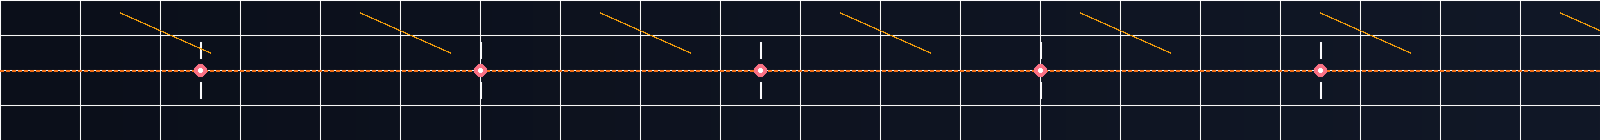
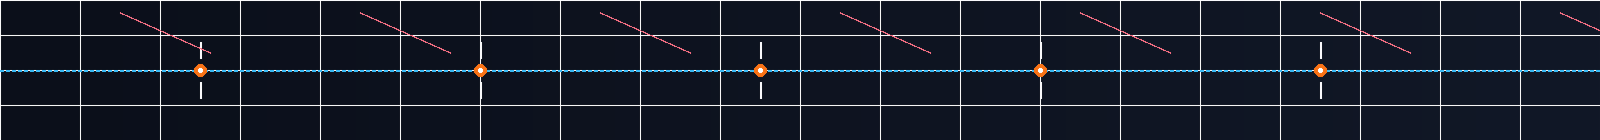
Align theme to sunset+blue palette

Changed region(s): [[0.0, 0.4571, 1.0, 0.5429]]

diff --git a/README.md b/README.md
@@ -74,23 +74,23 @@
 
 **Programming Languages**
 
-![Python](https://img.shields.io/badge/Python-0B0F1A?style=flat-square&logo=python&logoColor=F97316&labelColor=0B0F1A) ![C++](https://img.shields.io/badge/C++-0B0F1A?style=flat-square&logo=cplusplus&logoColor=F97316&labelColor=0B0F1A) ![Java](https://img.shields.io/badge/Java-0B0F1A?style=flat-square&logo=java&logoColor=F97316&labelColor=0B0F1A) ![SQL](https://img.shields.io/badge/SQL-0B0F1A?style=flat-square&labelColor=0B0F1A) ![TypeScript](https://img.shields.io/badge/TypeScript-0B0F1A?style=flat-square&logo=typescript&logoColor=F97316&labelColor=0B0F1A) ![JavaScript](https://img.shields.io/badge/JavaScript-0B0F1A?style=flat-square&logo=javascript&logoColor=F97316&labelColor=0B0F1A) ![Go](https://img.shields.io/badge/Go-0B0F1A?style=flat-square&logo=go&logoColor=F97316&labelColor=0B0F1A) ![Rust](https://img.shields.io/badge/Rust-0B0F1A?style=flat-square&logo=rust&logoColor=F97316&labelColor=0B0F1A)
-![HTML](https://img.shields.io/badge/HTML-0B0F1A?style=flat-square&logo=html5&logoColor=F97316&labelColor=0B0F1A) ![CSS](https://img.shields.io/badge/CSS-0B0F1A?style=flat-square&logo=css3&logoColor=F97316&labelColor=0B0F1A)
+![Python](https://img.shields.io/badge/Python-0B0F1A?style=flat-square&logo=python&logoColor=38BDF8&labelColor=0B0F1A) ![C++](https://img.shields.io/badge/C++-0B0F1A?style=flat-square&logo=cplusplus&logoColor=38BDF8&labelColor=0B0F1A) ![Java](https://img.shields.io/badge/Java-0B0F1A?style=flat-square&logo=java&logoColor=38BDF8&labelColor=0B0F1A) ![SQL](https://img.shields.io/badge/SQL-0B0F1A?style=flat-square&labelColor=0B0F1A) ![TypeScript](https://img.shields.io/badge/TypeScript-0B0F1A?style=flat-square&logo=typescript&logoColor=38BDF8&labelColor=0B0F1A) ![JavaScript](https://img.shields.io/badge/JavaScript-0B0F1A?style=flat-square&logo=javascript&logoColor=38BDF8&labelColor=0B0F1A) ![Go](https://img.shields.io/badge/Go-0B0F1A?style=flat-square&logo=go&logoColor=38BDF8&labelColor=0B0F1A) ![Rust](https://img.shields.io/badge/Rust-0B0F1A?style=flat-square&logo=rust&logoColor=38BDF8&labelColor=0B0F1A)
+![HTML](https://img.shields.io/badge/HTML-0B0F1A?style=flat-square&logo=html5&logoColor=38BDF8&labelColor=0B0F1A) ![CSS](https://img.shields.io/badge/CSS-0B0F1A?style=flat-square&logo=css3&logoColor=38BDF8&labelColor=0B0F1A)
 
 **Frameworks & Libraries**
 
-![NumPy](https://img.shields.io/badge/NumPy-0B0F1A?style=flat-square&logo=numpy&logoColor=F97316&labelColor=0B0F1A) ![Pandas](https://img.shields.io/badge/Pandas-0B0F1A?style=flat-square&logo=pandas&logoColor=F97316&labelColor=0B0F1A) ![Matplotlib](https://img.shields.io/badge/Matplotlib-0B0F1A?style=flat-square&logo=matplotlib&logoColor=F97316&labelColor=0B0F1A) ![Scikit--Learn](https://img.shields.io/badge/Scikit--Learn-0B0F1A?style=flat-square&logo=scikitlearn&logoColor=F97316&labelColor=0B0F1A) ![TensorFlow](https://img.shields.io/badge/TensorFlow-0B0F1A?style=flat-square&logo=tensorflow&logoColor=F97316&labelColor=0B0F1A) ![Keras](https://img.shields.io/badge/Keras-0B0F1A?style=flat-square&logo=keras&logoColor=F97316&labelColor=0B0F1A) ![Transformers](https://img.shields.io/badge/Transformers-0B0F1A?style=flat-square&labelColor=0B0F1A) ![SpaCy](https://img.shields.io/badge/SpaCy-0B0F1A?style=flat-square&logo=spacy&logoColor=F97316&labelColor=0B0F1A)
-![FastAPI](https://img.shields.io/badge/FastAPI-0B0F1A?style=flat-square&logo=fastapi&logoColor=F97316&labelColor=0B0F1A) ![Flask](https://img.shields.io/badge/Flask-0B0F1A?style=flat-square&logo=flask&logoColor=F97316&labelColor=0B0F1A) ![Django](https://img.shields.io/badge/Django-0B0F1A?style=flat-square&logo=django&logoColor=F97316&labelColor=0B0F1A) ![LangChain](https://img.shields.io/badge/LangChain-0B0F1A?style=flat-square&logo=chainlink&logoColor=F97316&labelColor=0B0F1A) ![LangGraph](https://img.shields.io/badge/LangGraph-0B0F1A?style=flat-square&logo=graphql&logoColor=F97316&labelColor=0B0F1A) ![Hugging%20Face](https://img.shields.io/badge/Hugging%20Face-0B0F1A?style=flat-square&logo=huggingface&logoColor=F97316&labelColor=0B0F1A) ![Streamlit](https://img.shields.io/badge/Streamlit-0B0F1A?style=flat-square&logo=streamlit&logoColor=F97316&labelColor=0B0F1A) ![LoRA](https://img.shields.io/badge/LoRA-0B0F1A?style=flat-square&labelColor=0B0F1A)
-![CrewAI](https://img.shields.io/badge/CrewAI-0B0F1A?style=flat-square&labelColor=0B0F1A) ![Pydantic](https://img.shields.io/badge/Pydantic-0B0F1A?style=flat-square&logo=pydantic&logoColor=F97316&labelColor=0B0F1A) ![Uvicorn](https://img.shields.io/badge/Uvicorn-0B0F1A?style=flat-square&labelColor=0B0F1A) ![SQLAlchemy](https://img.shields.io/badge/SQLAlchemy-0B0F1A?style=flat-square&labelColor=0B0F1A) ![Gunicorn](https://img.shields.io/badge/Gunicorn-0B0F1A?style=flat-square&labelColor=0B0F1A) ![Starlette](https://img.shields.io/badge/Starlette-0B0F1A?style=flat-square&labelColor=0B0F1A) ![Psycopg2](https://img.shields.io/badge/Psycopg2-0B0F1A?style=flat-square&labelColor=0B0F1A) ![Alembic](https://img.shields.io/badge/Alembic-0B0F1A?style=flat-square&labelColor=0B0F1A)
-![SQLite](https://img.shields.io/badge/SQLite-0B0F1A?style=flat-square&logo=sqlite&logoColor=F97316&labelColor=0B0F1A) ![Prisma](https://img.shields.io/badge/Prisma-0B0F1A?style=flat-square&logo=prisma&logoColor=F97316&labelColor=0B0F1A) ![OpenAI](https://img.shields.io/badge/OpenAI-0B0F1A?style=flat-square&logo=openai&logoColor=F97316&labelColor=0B0F1A) ![Anthropic](https://img.shields.io/badge/Anthropic-0B0F1A?style=flat-square&logo=anthropic&logoColor=F97316&labelColor=0B0F1A) ![Cohere](https://img.shields.io/badge/Cohere-0B0F1A?style=flat-square&logo=cohere&logoColor=F97316&labelColor=0B0F1A) ![LlamaIndex](https://img.shields.io/badge/LlamaIndex-0B0F1A?style=flat-square&labelColor=0B0F1A) ![FAISS](https://img.shields.io/badge/FAISS-0B0F1A?style=flat-square&labelColor=0B0F1A) ![Pinecone](https://img.shields.io/badge/Pinecone-0B0F1A?style=flat-square&logo=pinecone&logoColor=F97316&labelColor=0B0F1A)
-![Weaviate](https://img.shields.io/badge/Weaviate-0B0F1A?style=flat-square&logo=weaviate&logoColor=F97316&labelColor=0B0F1A) ![Qdrant](https://img.shields.io/badge/Qdrant-0B0F1A?style=flat-square&logo=qdrant&logoColor=F97316&labelColor=0B0F1A) ![Milvus](https://img.shields.io/badge/Milvus-0B0F1A?style=flat-square&logo=milvus&logoColor=F97316&labelColor=0B0F1A) ![Chroma](https://img.shields.io/badge/Chroma-0B0F1A?style=flat-square&logo=chroma&logoColor=F97316&labelColor=0B0F1A) ![GraphQL](https://img.shields.io/badge/GraphQL-0B0F1A?style=flat-square&logo=graphql&logoColor=F97316&labelColor=0B0F1A) ![gRPC](https://img.shields.io/badge/gRPC-0B0F1A?style=flat-square&logo=grpc&logoColor=F97316&labelColor=0B0F1A) ![Node.js](https://img.shields.io/badge/Node.js-0B0F1A?style=flat-square&logo=node.js&logoColor=F97316&labelColor=0B0F1A) ![Express](https://img.shields.io/badge/Express-0B0F1A?style=flat-square&logo=express&logoColor=F97316&labelColor=0B0F1A)
-![NestJS](https://img.shields.io/badge/NestJS-0B0F1A?style=flat-square&logo=nestjs&logoColor=F97316&labelColor=0B0F1A) ![PostgreSQL](https://img.shields.io/badge/PostgreSQL-0B0F1A?style=flat-square&logo=postgresql&logoColor=F97316&labelColor=0B0F1A) ![MySQL](https://img.shields.io/badge/MySQL-0B0F1A?style=flat-square&logo=mysql&logoColor=F97316&labelColor=0B0F1A) ![MongoDB](https://img.shields.io/badge/MongoDB-0B0F1A?style=flat-square&logo=mongodb&logoColor=F97316&labelColor=0B0F1A) ![Redis](https://img.shields.io/badge/Redis-0B0F1A?style=flat-square&logo=redis&logoColor=F97316&labelColor=0B0F1A) ![Elasticsearch](https://img.shields.io/badge/Elasticsearch-0B0F1A?style=flat-square&logo=elasticsearch&logoColor=F97316&labelColor=0B0F1A) ![Kafka](https://img.shields.io/badge/Kafka-0B0F1A?style=flat-square&logo=apachekafka&logoColor=F97316&labelColor=0B0F1A) ![RabbitMQ](https://img.shields.io/badge/RabbitMQ-0B0F1A?style=flat-square&logo=rabbitmq&logoColor=F97316&labelColor=0B0F1A)
-![Celery](https://img.shields.io/badge/Celery-0B0F1A?style=flat-square&logo=celery&logoColor=F97316&labelColor=0B0F1A)
+![NumPy](https://img.shields.io/badge/NumPy-0B0F1A?style=flat-square&logo=numpy&logoColor=38BDF8&labelColor=0B0F1A) ![Pandas](https://img.shields.io/badge/Pandas-0B0F1A?style=flat-square&logo=pandas&logoColor=38BDF8&labelColor=0B0F1A) ![Matplotlib](https://img.shields.io/badge/Matplotlib-0B0F1A?style=flat-square&logo=matplotlib&logoColor=38BDF8&labelColor=0B0F1A) ![Scikit--Learn](https://img.shields.io/badge/Scikit--Learn-0B0F1A?style=flat-square&logo=scikitlearn&logoColor=38BDF8&labelColor=0B0F1A) ![TensorFlow](https://img.shields.io/badge/TensorFlow-0B0F1A?style=flat-square&logo=tensorflow&logoColor=38BDF8&labelColor=0B0F1A) ![Keras](https://img.shields.io/badge/Keras-0B0F1A?style=flat-square&logo=keras&logoColor=38BDF8&labelColor=0B0F1A) ![Transformers](https://img.shields.io/badge/Transformers-0B0F1A?style=flat-square&labelColor=0B0F1A) ![SpaCy](https://img.shields.io/badge/SpaCy-0B0F1A?style=flat-square&logo=spacy&logoColor=38BDF8&labelColor=0B0F1A)
+![FastAPI](https://img.shields.io/badge/FastAPI-0B0F1A?style=flat-square&logo=fastapi&logoColor=38BDF8&labelColor=0B0F1A) ![Flask](https://img.shields.io/badge/Flask-0B0F1A?style=flat-square&logo=flask&logoColor=38BDF8&labelColor=0B0F1A) ![Django](https://img.shields.io/badge/Django-0B0F1A?style=flat-square&logo=django&logoColor=38BDF8&labelColor=0B0F1A) ![LangChain](https://img.shields.io/badge/LangChain-0B0F1A?style=flat-square&logo=chainlink&logoColor=38BDF8&labelColor=0B0F1A) ![LangGraph](https://img.shields.io/badge/LangGraph-0B0F1A?style=flat-square&logo=graphql&logoColor=38BDF8&labelColor=0B0F1A) ![Hugging%20Face](https://img.shields.io/badge/Hugging%20Face-0B0F1A?style=flat-square&logo=huggingface&logoColor=38BDF8&labelColor=0B0F1A) ![Streamlit](https://img.shields.io/badge/Streamlit-0B0F1A?style=flat-square&logo=streamlit&logoColor=38BDF8&labelColor=0B0F1A) ![LoRA](https://img.shields.io/badge/LoRA-0B0F1A?style=flat-square&labelColor=0B0F1A)
+![CrewAI](https://img.shields.io/badge/CrewAI-0B0F1A?style=flat-square&labelColor=0B0F1A) ![Pydantic](https://img.shields.io/badge/Pydantic-0B0F1A?style=flat-square&logo=pydantic&logoColor=38BDF8&labelColor=0B0F1A) ![Uvicorn](https://img.shields.io/badge/Uvicorn-0B0F1A?style=flat-square&labelColor=0B0F1A) ![SQLAlchemy](https://img.shields.io/badge/SQLAlchemy-0B0F1A?style=flat-square&labelColor=0B0F1A) ![Gunicorn](https://img.shields.io/badge/Gunicorn-0B0F1A?style=flat-square&labelColor=0B0F1A) ![Starlette](https://img.shields.io/badge/Starlette-0B0F1A?style=flat-square&labelColor=0B0F1A) ![Psycopg2](https://img.shields.io/badge/Psycopg2-0B0F1A?style=flat-square&labelColor=0B0F1A) ![Alembic](https://img.shields.io/badge/Alembic-0B0F1A?style=flat-square&labelColor=0B0F1A)
+![SQLite](https://img.shields.io/badge/SQLite-0B0F1A?style=flat-square&logo=sqlite&logoColor=38BDF8&labelColor=0B0F1A) ![Prisma](https://img.shields.io/badge/Prisma-0B0F1A?style=flat-square&logo=prisma&logoColor=38BDF8&labelColor=0B0F1A) ![OpenAI](https://img.shields.io/badge/OpenAI-0B0F1A?style=flat-square&logo=openai&logoColor=38BDF8&labelColor=0B0F1A) ![Anthropic](https://img.shields.io/badge/Anthropic-0B0F1A?style=flat-square&logo=anthropic&logoColor=38BDF8&labelColor=0B0F1A) ![Cohere](https://img.shields.io/badge/Cohere-0B0F1A?style=flat-square&logo=cohere&logoColor=38BDF8&labelColor=0B0F1A) ![LlamaIndex](https://img.shields.io/badge/LlamaIndex-0B0F1A?style=flat-square&labelColor=0B0F1A) ![FAISS](https://img.shields.io/badge/FAISS-0B0F1A?style=flat-square&labelColor=0B0F1A) ![Pinecone](https://img.shields.io/badge/Pinecone-0B0F1A?style=flat-square&logo=pinecone&logoColor=38BDF8&labelColor=0B0F1A)
+![Weaviate](https://img.shields.io/badge/Weaviate-0B0F1A?style=flat-square&logo=weaviate&logoColor=38BDF8&labelColor=0B0F1A) ![Qdrant](https://img.shields.io/badge/Qdrant-0B0F1A?style=flat-square&logo=qdrant&logoColor=38BDF8&labelColor=0B0F1A) ![Milvus](https://img.shields.io/badge/Milvus-0B0F1A?style=flat-square&logo=milvus&logoColor=38BDF8&labelColor=0B0F1A) ![Chroma](https://img.shields.io/badge/Chroma-0B0F1A?style=flat-square&logo=chroma&logoColor=38BDF8&labelColor=0B0F1A) ![GraphQL](https://img.shields.io/badge/GraphQL-0B0F1A?style=flat-square&logo=graphql&logoColor=38BDF8&labelColor=0B0F1A) ![gRPC](https://img.shields.io/badge/gRPC-0B0F1A?style=flat-square&logo=grpc&logoColor=38BDF8&labelColor=0B0F1A) ![Node.js](https://img.shields.io/badge/Node.js-0B0F1A?style=flat-square&logo=node.js&logoColor=38BDF8&labelColor=0B0F1A) ![Express](https://img.shields.io/badge/Express-0B0F1A?style=flat-square&logo=express&logoColor=38BDF8&labelColor=0B0F1A)
+![NestJS](https://img.shields.io/badge/NestJS-0B0F1A?style=flat-square&logo=nestjs&logoColor=38BDF8&labelColor=0B0F1A) ![PostgreSQL](https://img.shields.io/badge/PostgreSQL-0B0F1A?style=flat-square&logo=postgresql&logoColor=38BDF8&labelColor=0B0F1A) ![MySQL](https://img.shields.io/badge/MySQL-0B0F1A?style=flat-square&logo=mysql&logoColor=38BDF8&labelColor=0B0F1A) ![MongoDB](https://img.shields.io/badge/MongoDB-0B0F1A?style=flat-square&logo=mongodb&logoColor=38BDF8&labelColor=0B0F1A) ![Redis](https://img.shields.io/badge/Redis-0B0F1A?style=flat-square&logo=redis&logoColor=38BDF8&labelColor=0B0F1A) ![Elasticsearch](https://img.shields.io/badge/Elasticsearch-0B0F1A?style=flat-square&logo=elasticsearch&logoColor=38BDF8&labelColor=0B0F1A) ![Kafka](https://img.shields.io/badge/Kafka-0B0F1A?style=flat-square&logo=apachekafka&logoColor=38BDF8&labelColor=0B0F1A) ![RabbitMQ](https://img.shields.io/badge/RabbitMQ-0B0F1A?style=flat-square&logo=rabbitmq&logoColor=38BDF8&labelColor=0B0F1A)
+![Celery](https://img.shields.io/badge/Celery-0B0F1A?style=flat-square&logo=celery&logoColor=38BDF8&labelColor=0B0F1A)
 
 **Tools & Platforms**
 
-![Git](https://img.shields.io/badge/Git-0B0F1A?style=flat-square&logo=git&logoColor=F97316&labelColor=0B0F1A) ![GitHub](https://img.shields.io/badge/GitHub-0B0F1A?style=flat-square&logo=github&logoColor=F97316&labelColor=0B0F1A) ![Docker](https://img.shields.io/badge/Docker-0B0F1A?style=flat-square&logo=docker&logoColor=F97316&labelColor=0B0F1A) ![MLflow](https://img.shields.io/badge/MLflow-0B0F1A?style=flat-square&logo=mlflow&logoColor=F97316&labelColor=0B0F1A) ![Kubernetes](https://img.shields.io/badge/Kubernetes-0B0F1A?style=flat-square&logo=kubernetes&logoColor=F97316&labelColor=0B0F1A) ![DAGsHub](https://img.shields.io/badge/DAGsHub-0B0F1A?style=flat-square&labelColor=0B0F1A) ![AWS](https://img.shields.io/badge/AWS-0B0F1A?style=flat-square&logo=amazonaws&logoColor=F97316&labelColor=0B0F1A) ![GitHub%20Actions](https://img.shields.io/badge/GitHub%20Actions-0B0F1A?style=flat-square&logo=githubactions&logoColor=F97316&labelColor=0B0F1A)
-![Linux](https://img.shields.io/badge/Linux-0B0F1A?style=flat-square&logo=linux&logoColor=F97316&labelColor=0B0F1A) ![Prometheus](https://img.shields.io/badge/Prometheus-0B0F1A?style=flat-square&logo=prometheus&logoColor=F97316&labelColor=0B0F1A) ![Grafana](https://img.shields.io/badge/Grafana-0B0F1A?style=flat-square&logo=grafana&logoColor=F97316&labelColor=0B0F1A) ![Weights%20%26%20Biases](https://img.shields.io/badge/Weights%20%26%20Biases-0B0F1A?style=flat-square&logo=weightsandbiases&logoColor=F97316&labelColor=0B0F1A) ![Airflow](https://img.shields.io/badge/Airflow-0B0F1A?style=flat-square&logo=apacheairflow&logoColor=F97316&labelColor=0B0F1A)
+![Git](https://img.shields.io/badge/Git-0B0F1A?style=flat-square&logo=git&logoColor=38BDF8&labelColor=0B0F1A) ![GitHub](https://img.shields.io/badge/GitHub-0B0F1A?style=flat-square&logo=github&logoColor=38BDF8&labelColor=0B0F1A) ![Docker](https://img.shields.io/badge/Docker-0B0F1A?style=flat-square&logo=docker&logoColor=38BDF8&labelColor=0B0F1A) ![MLflow](https://img.shields.io/badge/MLflow-0B0F1A?style=flat-square&logo=mlflow&logoColor=38BDF8&labelColor=0B0F1A) ![Kubernetes](https://img.shields.io/badge/Kubernetes-0B0F1A?style=flat-square&logo=kubernetes&logoColor=38BDF8&labelColor=0B0F1A) ![DAGsHub](https://img.shields.io/badge/DAGsHub-0B0F1A?style=flat-square&labelColor=0B0F1A) ![AWS](https://img.shields.io/badge/AWS-0B0F1A?style=flat-square&logo=amazonaws&logoColor=38BDF8&labelColor=0B0F1A) ![GitHub%20Actions](https://img.shields.io/badge/GitHub%20Actions-0B0F1A?style=flat-square&logo=githubactions&logoColor=38BDF8&labelColor=0B0F1A)
+![Linux](https://img.shields.io/badge/Linux-0B0F1A?style=flat-square&logo=linux&logoColor=38BDF8&labelColor=0B0F1A) ![Prometheus](https://img.shields.io/badge/Prometheus-0B0F1A?style=flat-square&logo=prometheus&logoColor=38BDF8&labelColor=0B0F1A) ![Grafana](https://img.shields.io/badge/Grafana-0B0F1A?style=flat-square&logo=grafana&logoColor=38BDF8&labelColor=0B0F1A) ![Weights%20%26%20Biases](https://img.shields.io/badge/Weights%20%26%20Biases-0B0F1A?style=flat-square&logo=weightsandbiases&logoColor=38BDF8&labelColor=0B0F1A) ![Airflow](https://img.shields.io/badge/Airflow-0B0F1A?style=flat-square&logo=apacheairflow&logoColor=38BDF8&labelColor=0B0F1A)
 
 **Soft Skills**
 
@@ -103,7 +103,7 @@ Leadership • Cross-functional Collaboration • Strategic Thinking • Communi
 </div>
 
 <div align="center">
-  <img src="https://github-readme-activity-graph.vercel.app/graph?username=DivyamTalwar&bg_color=0B0F1A&color=E6EDF3&line=F97316&point=FB7185&area=true&hide_border=true" width="100%" />
+  <img src="https://github-readme-activity-graph.vercel.app/graph?username=DivyamTalwar&bg_color=0B0F1A&color=E6EDF3&line=38BDF8&point=F97316&area=true&hide_border=true" width="100%" />
 </div>
 
 ---
